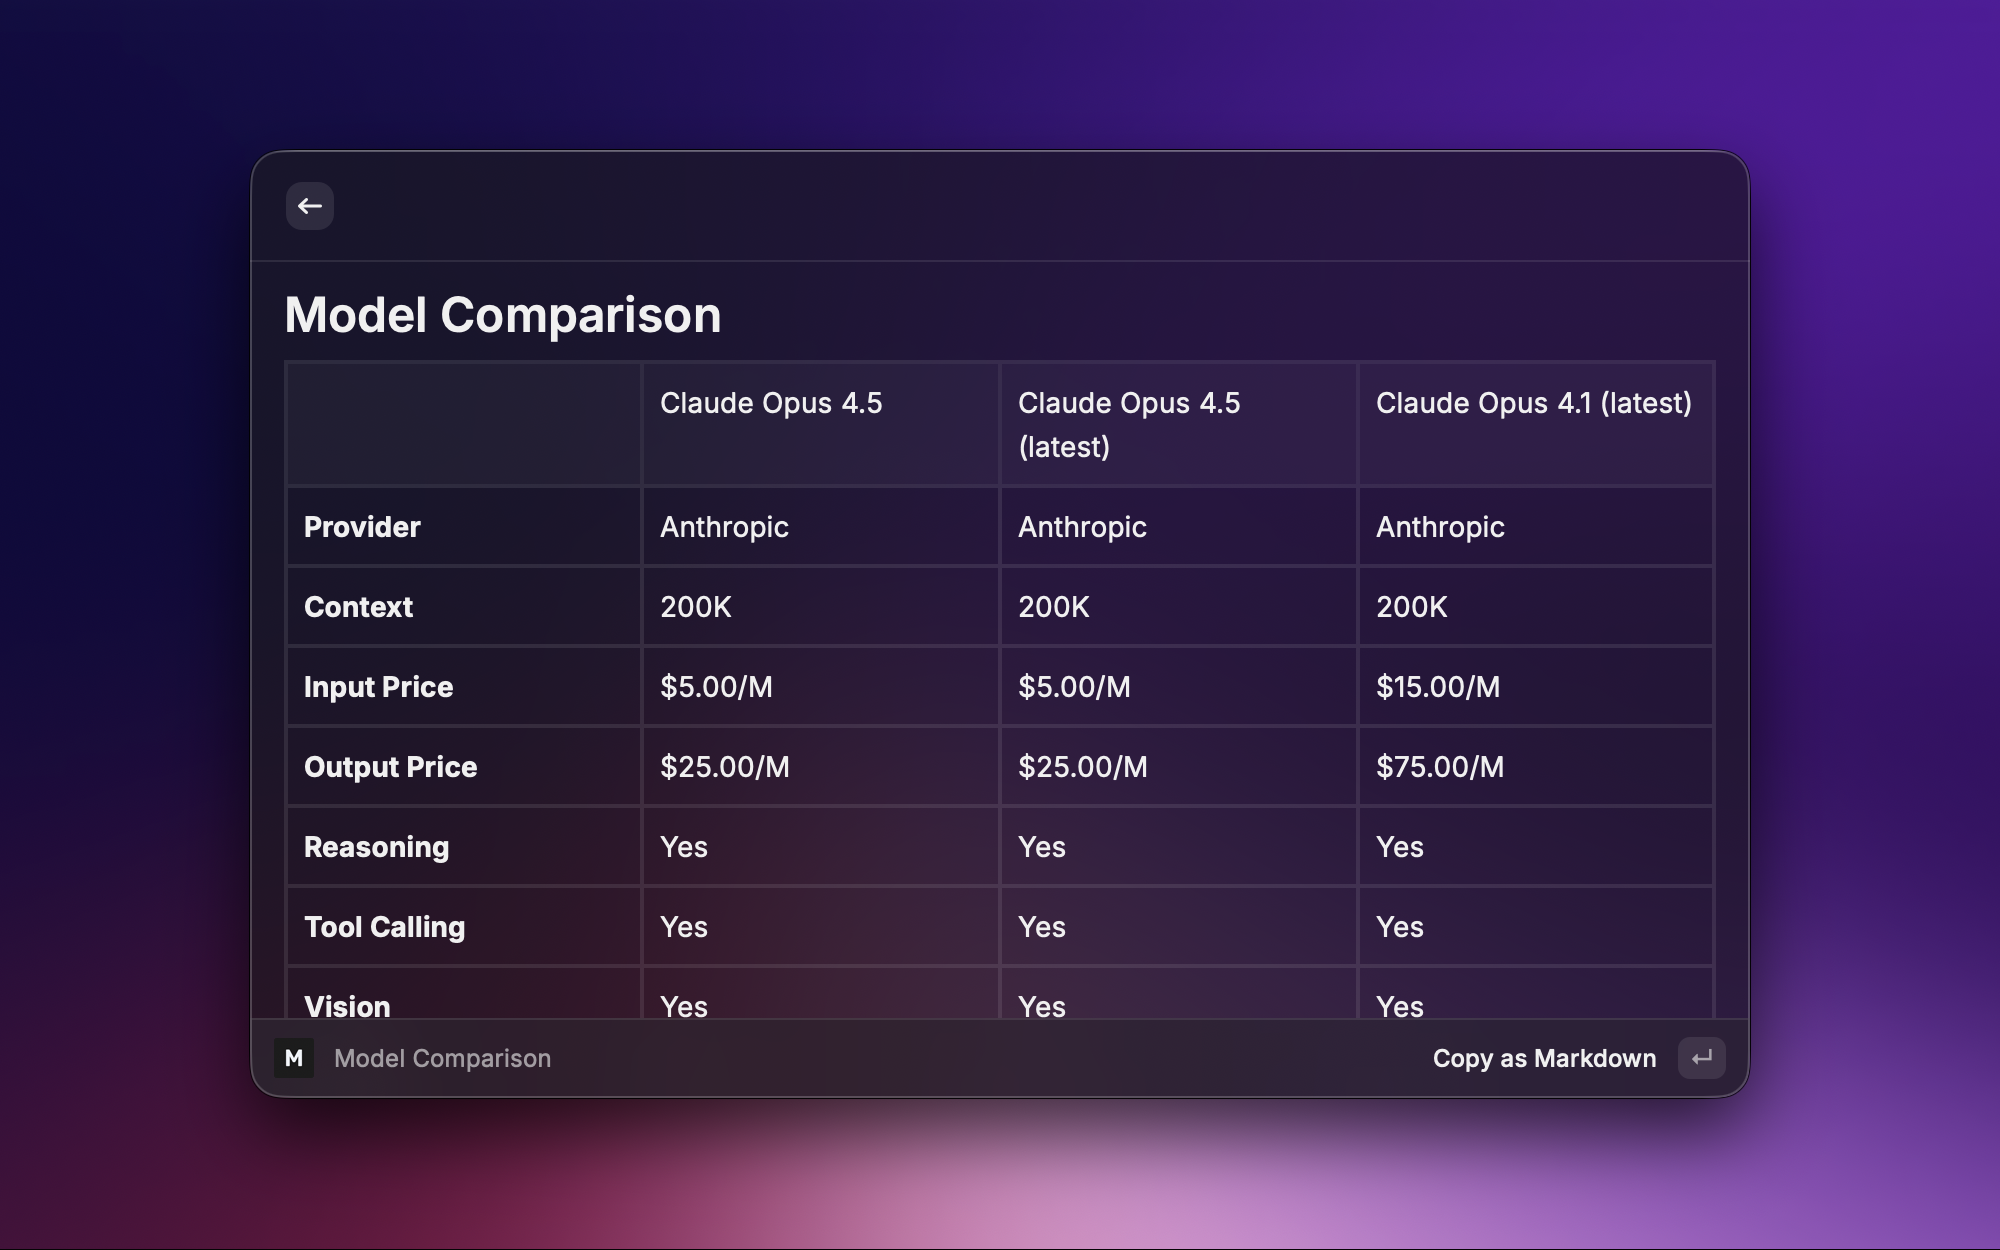
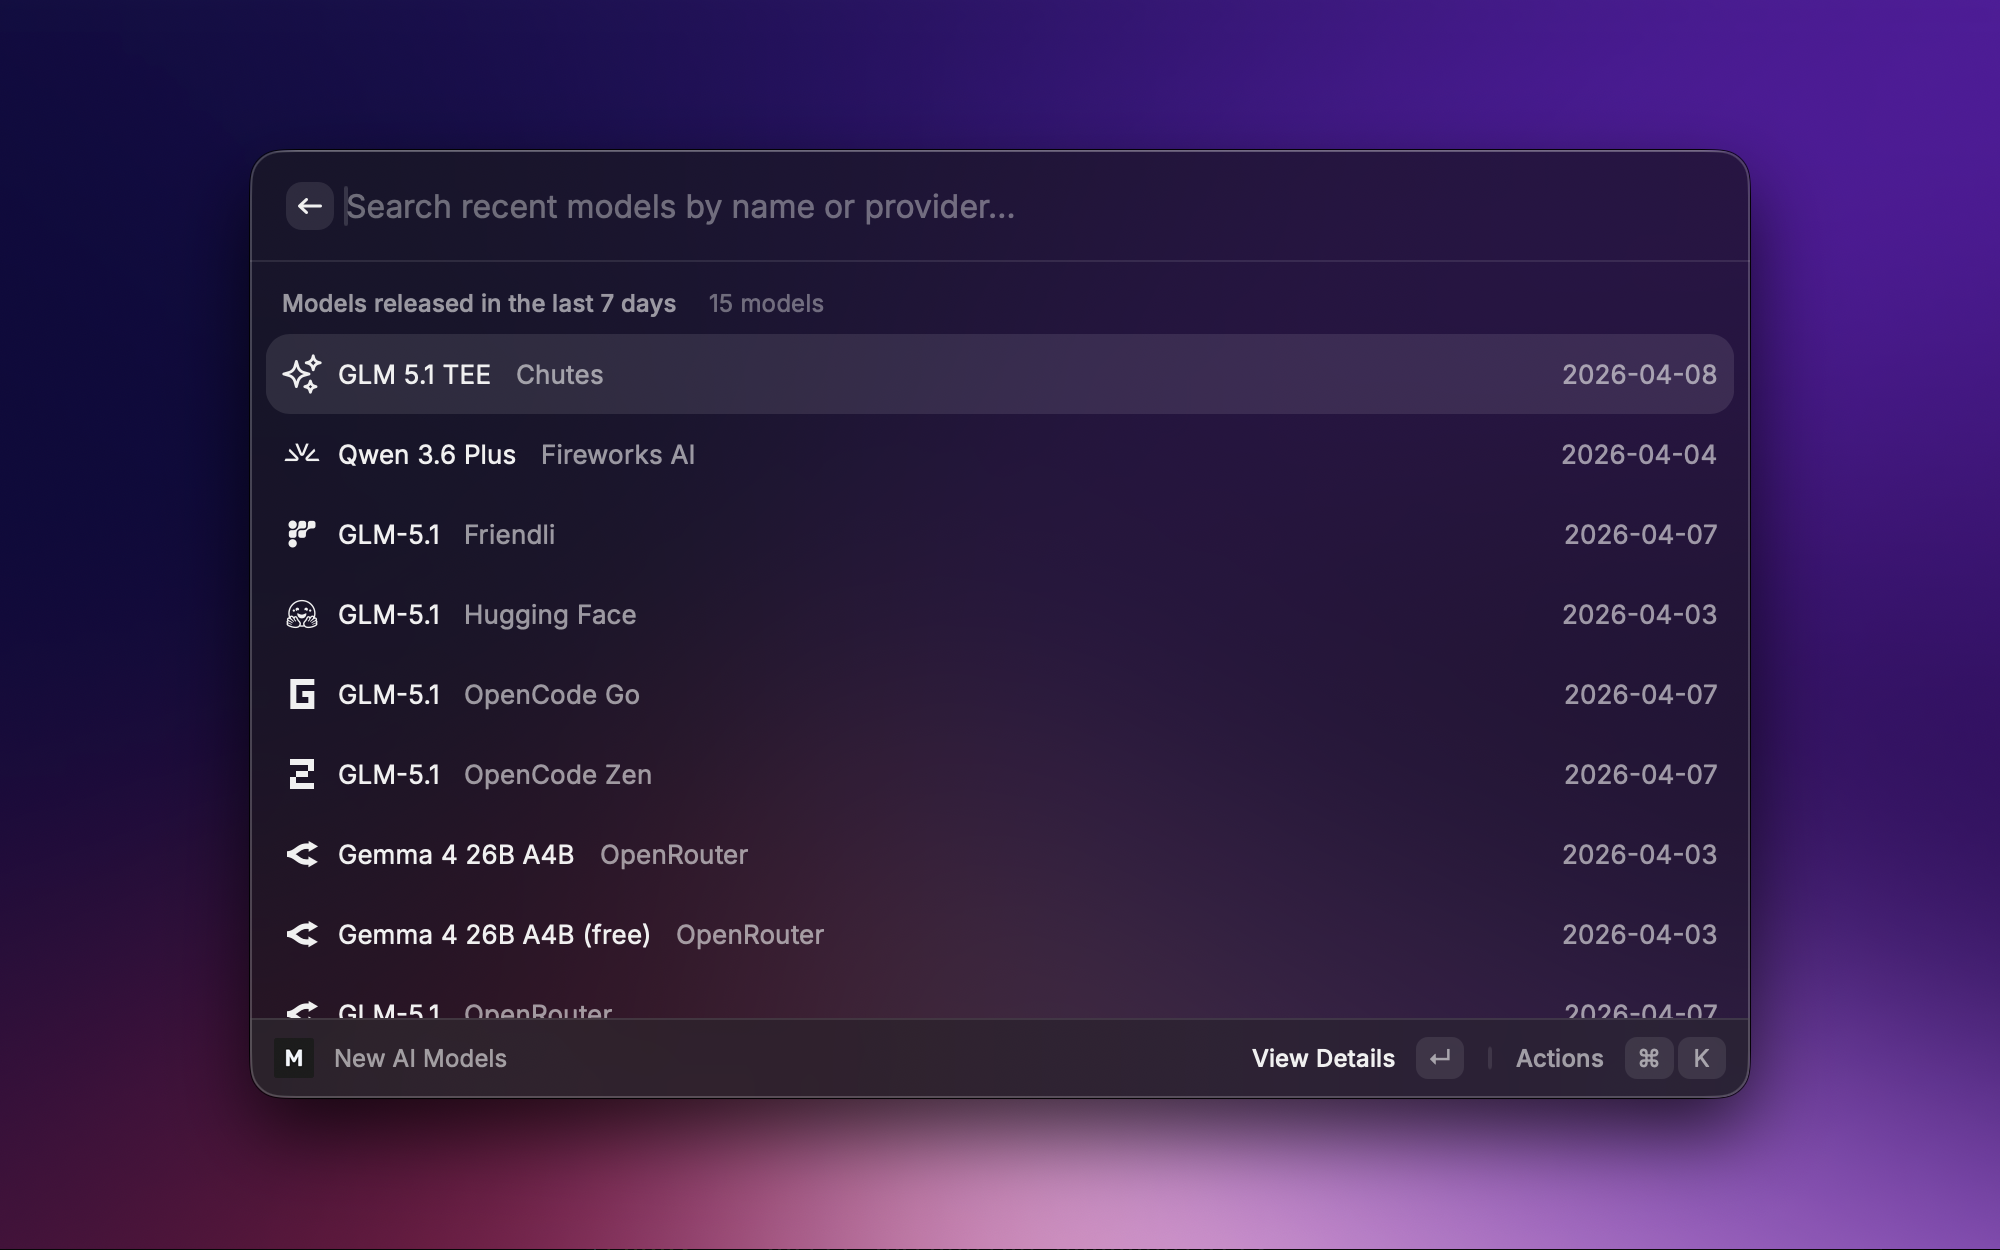
docs: update docs for New AI Models

diff --git a/README.md b/README.md
@@ -18,7 +18,11 @@ Filter models by multiple capabilities at once (e.g., reasoning + vision + tool 
 
 ### Compare AI Models
 
-Select up to three models for side-by-side comparison. View pricing, context windows, and capabilities in a table. Export comparisons as markdown.
+Select up to two models for side-by-side comparison. View pricing, context windows, and capabilities in a table. Export comparisons as markdown.
+
+### New AI Models
+
+Browse models released recently. Defaults to the last 7 days; adjust the window via the `lookbackPeriod` preference (days) in Extension Preferences.
 
 ### AI Models by Price
 

diff --git a/CHANGELOG.md b/CHANGELOG.md
@@ -1,5 +1,10 @@
 # models.dev Changelog
 
+## [New AI Models Command] - {PR_MERGE_DATE}
+
+- Add “New AI Models” command to browse recently released models
+- Add `lookbackPeriod` preference (days) to control the recency window
+
 ## [Bug Fix] - 2026-03-31
 
 ### Fixed
